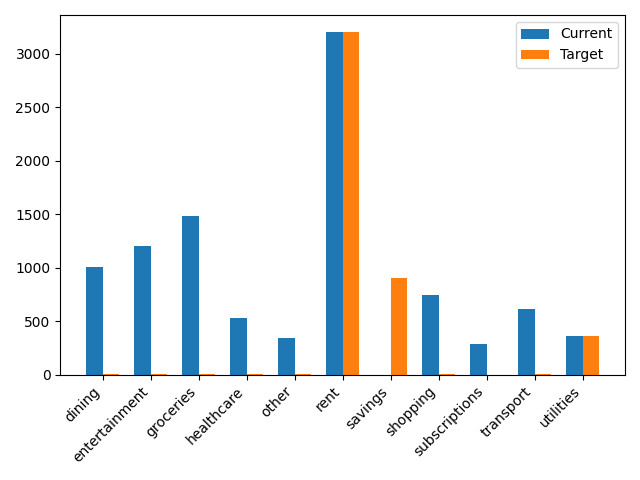
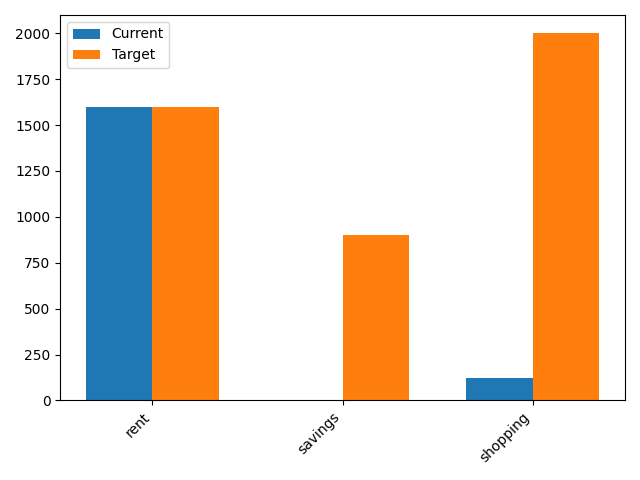
Add CrewAI agents, API endpoints, and enhanced features

diff --git a/src/agents/agents.py b/src/agents/agents.py
@@ -1,0 +1,125 @@
+import os, json, time
+from dataclasses import dataclass
+from src.tools.budget_rebalancer import smart_budget_rebalance
+from src.tools.benchmarks import get_benchmarks
+from src.tools.formatter import summary_markdown
+from src.utils.plots import spending_by_category, before_after_bar
+from src.utils.cache import SimpleCache
+
+@dataclass
+class AgentResult:
+    name: str
+    summary: str
+    payload: dict
+
+# ---- Individual Agents ----
+class ExpenseAnalyzerAgent:
+    def run(self, df):
+        df = ensure_category(df)
+        monthly_alloc = (df[df["amount"] < 0]
+            .assign(abs_amt=lambda d: d["amount"].abs())
+            .groupby("category")["abs_amt"].sum()
+            .to_dict())
+        return AgentResult("ExpenseAnalyzer", "Expenses categorized.", {"monthly_alloc": monthly_alloc})
+
+class RiskProfilerAgent:
+    def run(self, df, monthly_income, monthly_alloc):
+        total_exp = sum(monthly_alloc.values())
+        savings_rate = max((monthly_income - total_exp) / monthly_income, 0)
+        discretionary = sum(v for k, v in monthly_alloc.items()
+                            if k not in ["rent", "utilities", "insurance", "healthcare"])
+        discretionary_ratio = discretionary / total_exp if total_exp else 0
+        risk_score = round(0.5*(1-savings_rate) + 0.5*discretionary_ratio, 2)
+        return AgentResult("RiskProfiler", "Risk computed.", {"risk_score": risk_score})
+
+class PlanDesignerAgent:
+    def run(self, monthly_alloc, monthly_income):
+        target, deltas = smart_budget_rebalance(monthly_alloc, monthly_income, 0.2)
+        return AgentResult("PlanDesigner", "Plan designed.", {"target": target, "deltas": deltas})
+
+# ---- Controller ----
+class ControllerAgent:
+    def __init__(self, income, out_dir="outputs"):
+        self.income = income
+        self.out_dir = out_dir
+        os.makedirs(self.out_dir, exist_ok=True)
+        self.cache = SimpleCache(cache_dir=os.path.join(self.out_dir, "cache"), ttl_seconds=1800)
+
+    def execute(self, df):
+        start = time.time()
+
+        # ---------- CACHE KEY ----------
+        key_payload = {
+            "income": float(self.income),
+            "rows": int(len(df)),
+            "sum_amount": float(df["amount"].sum()) if "amount" in df.columns else None,
+        }
+        cached = self.cache.get(key_payload)
+        if cached:
+            with open(os.path.join(self.out_dir, "report.json"), "w") as f:
+                json.dump(cached, f, indent=2)
+            print("✅ Agentic run complete (cache hit).")
+            return
+
+        # ---------- RUN AGENTS ----------
+        from src.tasks.categorize import ensure_category
+        df = ensure_category(df)
+
+        # Expense
+        exp = (df[df["amount"] < 0]
+               .assign(abs_amt=lambda d: d["amount"].abs())
+               .groupby("category")["abs_amt"].sum().to_dict())
+
+        # Risk
+        total_exp = sum(exp.values())
+        savings_rate = max((self.income - total_exp) / self.income, 0) if self.income > 0 else 0.0
+        discretionary = sum(v for k, v in exp.items() if k not in ["rent","utilities","insurance","healthcare","taxes"])
+        discretionary_ratio = discretionary / total_exp if total_exp else 0.0
+        risk_score = round(0.5*(1-savings_rate) + 0.5*discretionary_ratio, 2)
+
+        # Plan
+        target, deltas = smart_budget_rebalance(exp, self.income, 0.20)
+
+        # ---------- BENCHMARK CHECKS ----------
+        bm = get_benchmarks()
+        flags = []
+        subs = exp.get("subscriptions", 0.0)
+        dining = exp.get("dining", 0.0)
+        if total_exp > 0:
+            if subs / total_exp > bm["max_subscription_ratio"]:
+                flags.append("Subscriptions exceed recommended share.")
+            if dining / total_exp > bm["max_dining_ratio"]:
+                flags.append("Dining spend exceeds recommended share.")
+        if savings_rate < bm["warning_savings"]:
+            flags.append("Savings rate dangerously low; prioritize cuts.")
+
+        # ---------- CHARTS ----------
+        spending_by_category(df, os.path.join(self.out_dir, "spend_by_category.png"))
+        before_after_bar(exp, target, os.path.join(self.out_dir, "before_after_budget.png"))
+
+        # ---------- REPORT ----------
+        runtime = time.time() - start
+        report = {
+            "summary": {
+                "income": float(self.income),
+                "total_expenses": round(total_exp, 2),
+                "savings_rate": round(savings_rate, 3),
+                "categories_found": len(exp),
+                "risk_score": risk_score,
+                "runtime_seconds": round(runtime, 3),
+                "flags": flags
+            },
+            "plan": {"target": {k: round(v,2) for k,v in target.items()},
+                     "deltas": {k: round(v,2) for k,v in deltas.items()}},
+        }
+
+        # write JSON + Markdown
+        with open(os.path.join(self.out_dir, "report.json"), "w") as f:
+            json.dump(report, f, indent=2)
+        with open(os.path.join(self.out_dir, "report.md"), "w") as f:
+            f.write(summary_markdown(report))
+
+        # cache store
+        self.cache.set(key_payload, report)
+
+        print("✅ Agentic run complete.")

diff --git a/src/main.py b/src/main.py
@@ -1,43 +1,14 @@
-import os, json, pandas as pd
-from tasks.categorize import ensure_category
-from utils.plots import spending_by_category, before_after_bar
-from tools.budget_rebalancer import smart_budget_rebalance
+import os
+import pandas as pd
+from src.agents.agents import ControllerAgent
 
-def analyze(csv_path: str, monthly_income: float, out_dir: str="outputs"):
-  os.makedirs(out_dir, exist_ok=True)
-  df = pd.read_csv(csv_path, parse_dates=['date'])
-  df = ensure_category(df)
 
-  # CURRENT monthly allocation (positive per category)
-  spend = df[df['amount']<0].copy()
-  spend['abs'] = spend['amount'].abs()
-  current_alloc = spend.groupby('category')['abs'].sum().to_dict()
+def analyze_agentic(csv_path: str, monthly_income: float, out_dir: str = "outputs"):
+    """Run the full agentic analysis pipeline."""
+    os.makedirs(out_dir, exist_ok=True)
+    df = pd.read_csv(csv_path, parse_dates=["date"])
+    ControllerAgent(monthly_income, out_dir).execute(df)
 
-  # Simple “risk” proxy for Day-1
-  total_exp = spend['abs'].sum()
-  income = monthly_income
-  savings_rate = max((income - total_exp)/income, 0.0) if income>0 else 0.0
-  discretionary = sum(v for k,v in current_alloc.items() if k not in ['rent','utilities','insurance','healthcare','taxes'])
-  discretionary_ratio = (discretionary/total_exp) if total_exp>0 else 0.0
-  risk_score = round(0.5*(1-savings_rate) + 0.5*discretionary_ratio, 2)
-
-  # Rebalance proposal
-  target, deltas = smart_budget_rebalance(current_alloc, income, target_savings_pct=0.2)
-
-  # Charts
-  spending_by_category(df, os.path.join(out_dir, "spend_by_category.png"))
-  before_after_bar(current_alloc, target, os.path.join(out_dir, "before_after_budget.png"))
-
-  report = {
-    "summary": {"income": income, "total_expenses": round(total_exp,2), "savings_rate": round(savings_rate,2),
-                "categories_found": len(current_alloc), "risk_score": risk_score},
-    "plan": {"target": {k: round(v,2) for k,v in target.items()},
-             "deltas": {k: round(v,2) for k,v in deltas.items()}}
-  }
-  with open(os.path.join(out_dir, "report.json"), "w") as f:
-    json.dump(report, f, indent=2)
-  print("✅ Analysis complete → outputs/report.json + charts")
 
 if __name__ == "__main__":
-  csv = os.environ.get("FIN_GUARD_CSV", "data/moderate.csv")
-  analyze(csv, monthly_income=4500.0)
+    analyze_agentic("data/moderate.csv", 4500)

diff --git a/src/api.py b/src/api.py
@@ -1,0 +1,54 @@
+import io, os, json, csv
+from flask import Flask, request, jsonify
+import pandas as pd
+from src.agents.agents import ControllerAgent
+
+app = Flask(__name__)
+
+@app.get("/health")
+def health():
+    return {"status": "ok"}
+
+@app.post("/analyze")
+def analyze_endpoint():
+    """
+    Accepts either:
+      - {"csv_text": "...", "monthly_income": 4500}
+      - {"transactions": [ {...}, {...} ], "monthly_income": 4500}
+    """
+    payload = request.get_json(force=True, silent=True) or {}
+    income = float(payload.get("monthly_income", 4000))
+
+    # case A: CSV text
+    if "csv_text" in payload:
+        csv_text = payload["csv_text"]
+        df = pd.read_csv(io.StringIO(csv_text), parse_dates=["date"])
+    # case B: JSON transactions list
+    elif "transactions" in payload:
+        df = pd.DataFrame(payload["transactions"])
+        if "date" in df.columns:
+            df["date"] = pd.to_datetime(df["date"], errors="coerce")
+    else:
+        return jsonify({"status":"error","message":"Provide csv_text or transactions"}), 400
+
+    ControllerAgent(income, out_dir="outputs").execute(df)
+    with open(os.path.join("outputs","report.json"), "r") as f:
+        report = json.load(f)
+    return jsonify({"status":"success","report":report})
+
+@app.get("/demo/<profile>")
+def demo_profile(profile):
+    path = f"data/{profile}.csv"
+    if not os.path.exists(path):
+        return jsonify({"status":"error","message":f"demo profile not found: {path}"}), 404
+    df = pd.read_csv(path, parse_dates=["date"])
+    ControllerAgent(4500, out_dir="outputs").execute(df)
+    with open(os.path.join("outputs","report.json"), "r") as f:
+        report = json.load(f)
+    return jsonify({"status":"success","report":report})
+
+if __name__ == "__main__":
+    # stable run on macOS: no debug, no reloader
+    app.run(host="127.0.0.1", port=5050, debug=False, use_reloader=False, threaded=False)
+
+

diff --git a/src/tools/formatter.py b/src/tools/formatter.py
@@ -1,0 +1,43 @@
+from typing import Dict
+
+def summary_markdown(report: Dict) -> str:
+    s = report.get("summary", {})
+    plan = report.get("plan", {})
+    target = plan.get("target", {})
+    deltas = plan.get("deltas", {})
+
+    lines = []
+    lines.append(f"# FinGuard Summary")
+    lines.append("")
+    lines.append(f"- **Income:** ${s.get('income', 0):,.2f}")
+    if "total_expenses" in s:
+        lines.append(f"- **Total Expenses:** ${s['total_expenses']:,.2f}")
+    if "savings_rate" in s:
+        lines.append(f"- **Savings Rate:** {s['savings_rate']*100:.1f}%")
+    lines.append(f"- **Categories Found:** {s.get('categories_found', 0)}")
+    lines.append(f"- **Risk Score (0=low,1=high):** {s.get('risk_score', 0)}")
+    if "runtime_seconds" in s:
+        lines.append(f"- **Runtime:** {s['runtime_seconds']:.2f}s")
+    lines.append("")
+
+    lines.append("## Target Budget (After Rebalance)")
+    for k in sorted(target.keys()):
+        lines.append(f"- {k}: ${target[k]:,.2f}")
+
+    lines.append("")
+    lines.append("## Changes (Deltas)")
+    if not deltas:
+        lines.append("- No changes proposed.")
+    else:
+        for k in sorted(deltas.keys()):
+            v = deltas[k]
+            arrow = "↓" if v < 0 else ("↑" if v > 0 else "•")
+            lines.append(f"- {k}: {arrow} {v:+.2f}")
+
+    # simple guidance
+    lines.append("")
+    lines.append("## Next Steps")
+    lines.append("- Move proposed savings to a separate account on payday.")
+    lines.append("- Set category alerts where cuts are recommended.")
+    lines.append("- Re-run analysis next month and compare trends.")
+    return "\n".join(lines)

diff --git a/src/utils/cache.py b/src/utils/cache.py
@@ -1,0 +1,32 @@
+import os, json, hashlib, time
+from typing import Any, Optional
+
+class SimpleCache:
+    def __init__(self, cache_dir: str = "outputs/cache", ttl_seconds: int = 1800):
+        self.cache_dir = cache_dir
+        self.ttl = ttl_seconds
+        os.makedirs(self.cache_dir, exist_ok=True)
+
+    def _key(self, payload: Any) -> str:
+        blob = json.dumps(payload, sort_keys=True, default=str).encode("utf-8")
+        return hashlib.md5(blob).hexdigest()
+
+    def get(self, payload: Any) -> Optional[dict]:
+        key = self._key(payload)
+        path = os.path.join(self.cache_dir, f"{key}.json")
+        if not os.path.exists(path):
+            return None
+        try:
+            with open(path, "r") as f:
+                obj = json.load(f)
+            if time.time() - obj.get("_ts", 0) > self.ttl:
+                return None
+            return obj.get("data")
+        except Exception:
+            return None
+
+    def set(self, payload: Any, data: dict) -> None:
+        key = self._key(payload)
+        path = os.path.join(self.cache_dir, f"{key}.json")
+        with open(path, "w") as f:
+            json.dump({"_ts": time.time(), "data": data}, f, indent=2)

diff --git a/src/tools/benchmarks.py b/src/tools/benchmarks.py
@@ -1,0 +1,10 @@
+BENCHMARKS = {
+    "rule_50_30_20": {"needs": 0.50, "wants": 0.30, "savings": 0.20},
+    "max_subscription_ratio": 0.07,   # <= 7% monthly spend in subscriptions
+    "max_dining_ratio": 0.12,         # <= 12% monthly spend in dining
+    "healthy_savings_min": 0.20,      # 20%+ of income
+    "warning_savings": 0.10           # below 10% is risky
+}
+
+def get_benchmarks():
+    return BENCHMARKS

diff --git a/src/utils/plots.py b/src/utils/plots.py
@@ -1,4 +1,8 @@
 import os, pandas as pd, matplotlib.pyplot as plt
+import matplotlib
+
+matplotlib.use("Agg")  # headless backend for macOS / servers
+
 
 def spending_by_category(df: pd.DataFrame, out_path: str):
   os.makedirs(os.path.dirname(out_path), exist_ok=True)

diff --git a/outputs/report.md b/outputs/report.md
@@ -1,0 +1,23 @@
+# FinGuard Summary
+
+- **Income:** $4,500.00
+- **Total Expenses:** $1,720.00
+- **Savings Rate:** 61.8%
+- **Categories Found:** 2
+- **Risk Score (0=low,1=high):** 0.23
+- **Runtime:** 0.11s
+
+## Target Budget (After Rebalance)
+- rent: $1,600.00
+- savings: $900.00
+- shopping: $2,000.00
+
+## Changes (Deltas)
+- rent: • +0.00
+- savings: ↑ +900.00
+- shopping: ↑ +1880.00
+
+## Next Steps
+- Move proposed savings to a separate account on payday.
+- Set category alerts where cuts are recommended.
+- Re-run analysis next month and compare trends.
